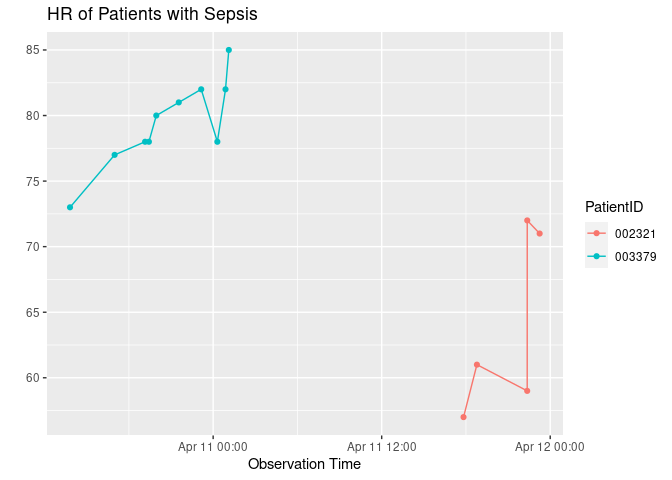
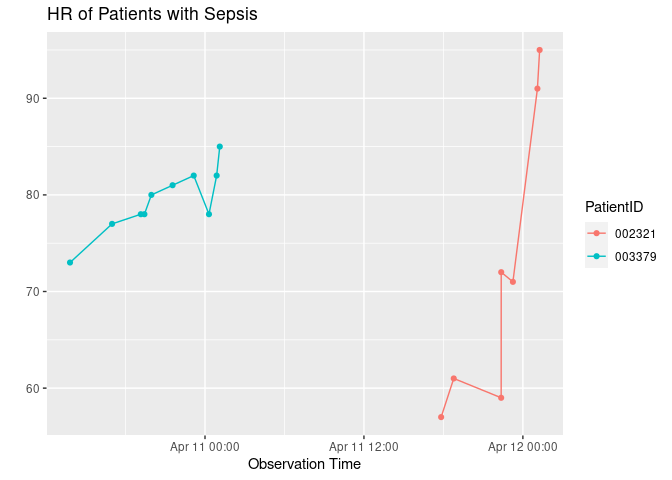
Updated report

diff --git a/README.md b/README.md
@@ -8,11 +8,11 @@ Yansong Wen
 
 \#TASK 4
 
-    [1] "2023-04-11 23:17:20 UTC"
+    [1] "2023-04-12 01:21:43 UTC"
 
 | PatientID |  HR | Temp | Resp |
 |:----------|----:|-----:|-----:|
-| 002321    |  71 |   NA |   13 |
+| 002321    |  95 |   NA |   14 |
 | 003379    |  85 |   NA |   32 |
 
 ![](README_files/figure-commonmark/unnamed-chunk-4-1.png)
@@ -23,19 +23,19 @@ Yansong Wen
 
 | PatientID | dHR | dTemp | dResp |
 |:----------|----:|------:|------:|
-| 000098    |   6 |    NA |     3 |
+| 000098    |   0 |    NA |     1 |
 | 000135    |  10 |   0.1 |     0 |
 | 000150    |   4 |    NA |     2 |
 | 000536    |  NA |    NA |    NA |
 | 000958    |   0 |    NA |    -2 |
-| 001241    |   7 |    NA |     8 |
+| 001241    | -13 |    NA |    -9 |
 | 001553    | -26 |   0.3 |    -2 |
 | 001850    |  NA |    NA |    NA |
 | 001903    |  -3 |    NA |    -3 |
 | 002116    |  NA |    NA |    NA |
 | 002171    |  NA |    NA |     5 |
 | 002247    |  -2 |    NA |     1 |
-| 002321    |  -1 |    NA |     0 |
+| 002321    |   4 |    NA |     0 |
 | 002480    |   3 |    NA |    -1 |
 | 002819    |  NA |    NA |    NA |
 | 002945    |   0 |    NA |     1 |
@@ -46,28 +46,28 @@ Yansong Wen
 | 004768    |  NA |    NA |    NA |
 | 004772    |   7 |    NA |    -3 |
 | 004902    |  NA |    NA |    NA |
-| 004927    |   2 |    NA |     1 |
+| 004927    |  -3 |    NA |     0 |
 | 004978    |  NA |    NA |    NA |
 | 005062    |  NA |    NA |    NA |
 | 005131    |  26 |    NA |     6 |
-| 005135    |   1 |    NA |     2 |
-| 005854    |  -5 |    NA |    -3 |
-| 005858    |  -6 |    NA |    -1 |
+| 005135    |  -1 |    NA |   -10 |
+| 005854    |   5 |    NA |    -3 |
+| 005858    |   0 |    NA |    -4 |
 | 005946    |  -4 |    NA |     0 |
 | 005980    |  -3 |    NA |    -2 |
-| 006349    |   4 |  -0.1 |    -4 |
+| 006349    |  -2 |   0.0 |     2 |
 | 006534    |   9 |    NA |    22 |
 | 006827    |  -1 |  -0.1 |    -2 |
-| 006987    |   0 |   0.2 |    -1 |
+| 006987    |  NA |    NA |    NA |
 | 007029    |   2 |    NA |     0 |
 | 007041    |  NA |    NA |   -12 |
 | 007541    |   0 |    NA |     0 |
 | 007567    |  -3 |    NA |     4 |
 | 007586    |  NA |   0.0 |   -15 |
 | 007742    |  NA |    NA |    NA |
-| 007753    |  -6 |    NA |     0 |
+| 007753    |  -7 |    NA |    -1 |
 | 008527    |  NA |    NA |    NA |
-| 008638    |   2 |    NA |   -15 |
+| 008638    |   3 |    NA |     5 |
 | 008639    |   3 |    NA |    -1 |
 | 008828    |   6 |   0.0 |    -5 |
 | 009301    |   4 |    NA |     0 |
